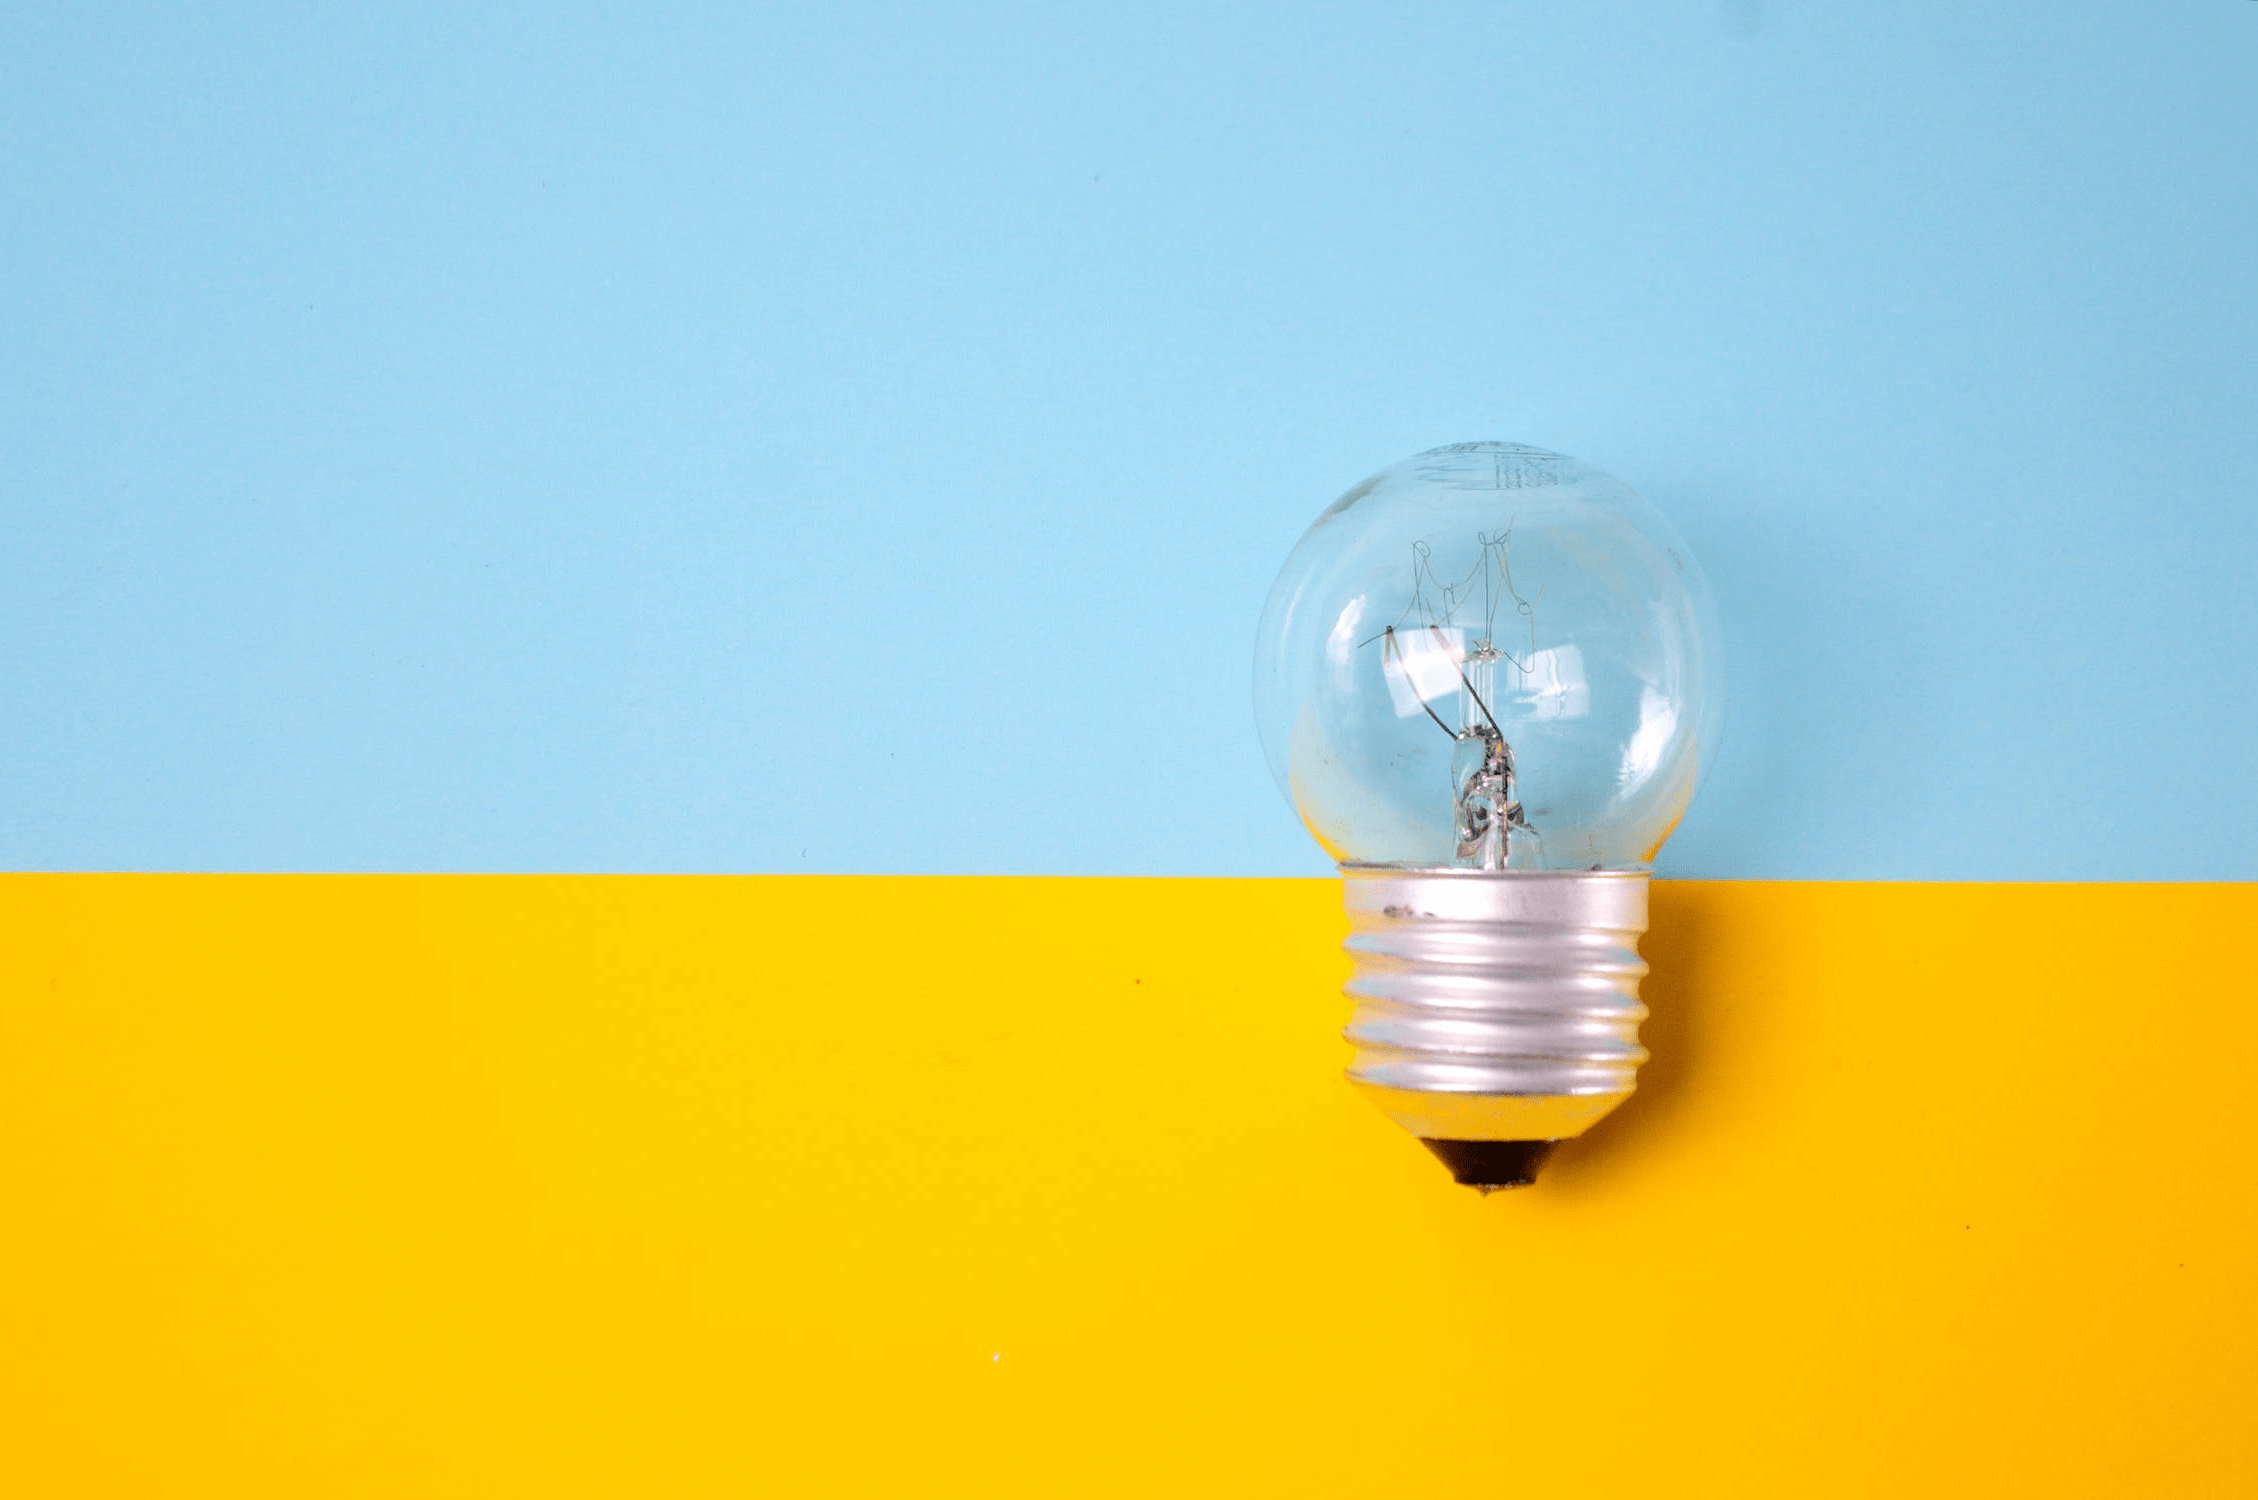
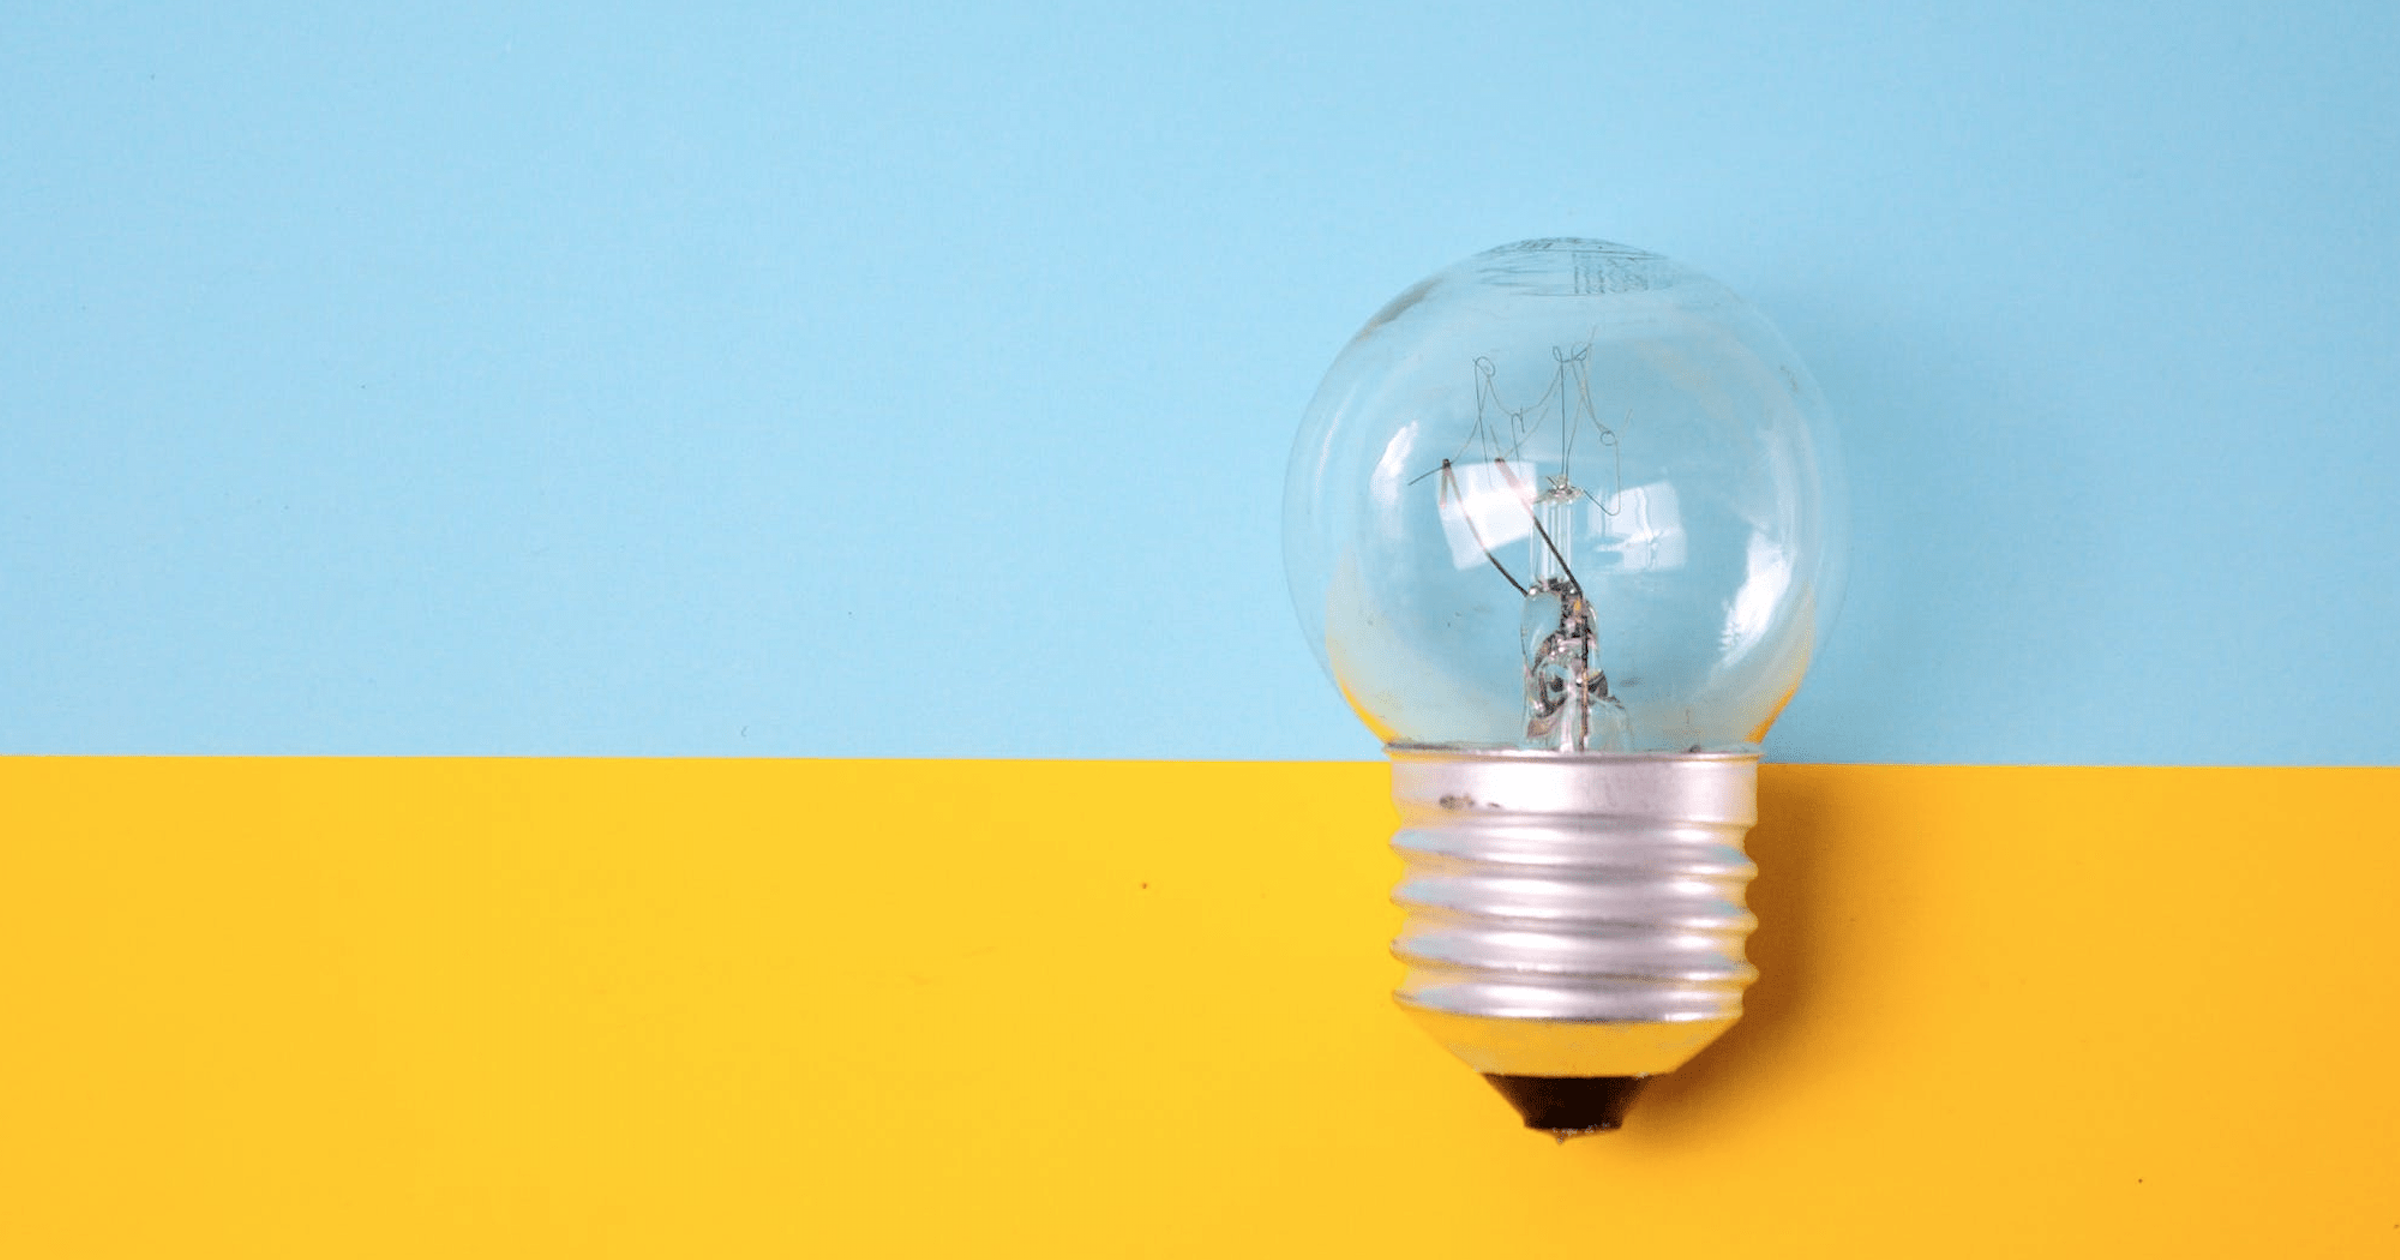
new picture size

diff --git a/public/404.html b/public/404.html
@@ -58,7 +58,7 @@
   <!-- This file lives in public/404.html -->
   <div class="dialog">
     <div>
-      <h1>The page you were looking for doesn't exist.</h1>
+      <h1>The page you were looking for exist.</h1>
       <p>You may have mistyped the address or the page may have moved.</p>
     </div>
     <p>If you are the application owner check the logs for more information.</p>
